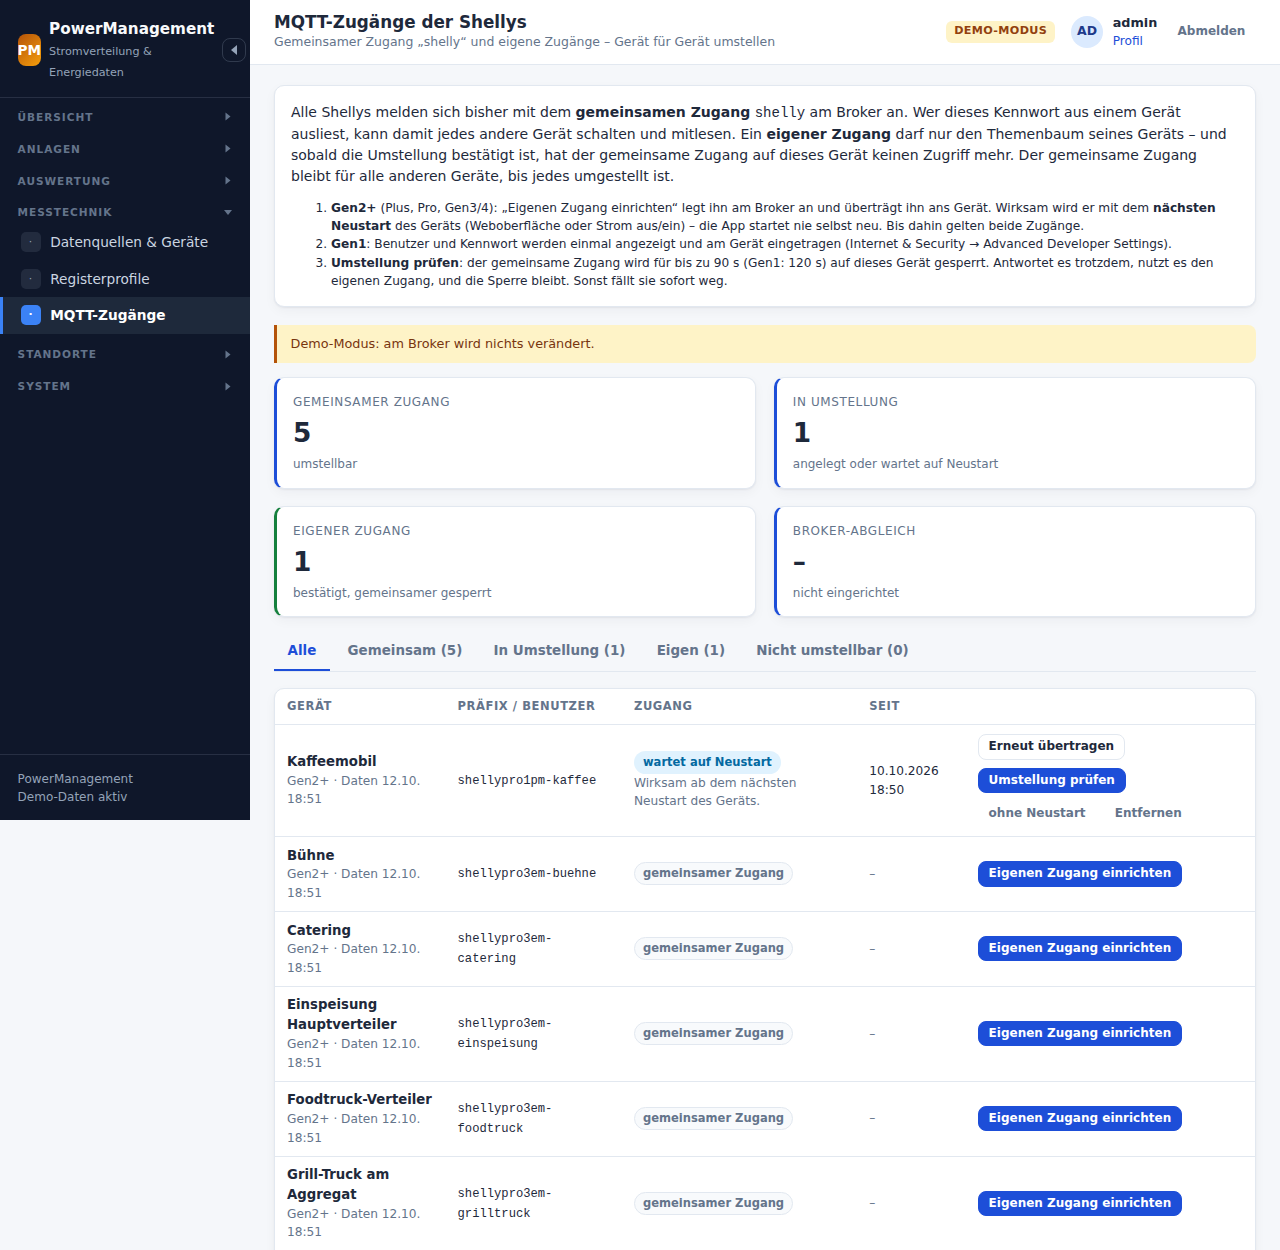
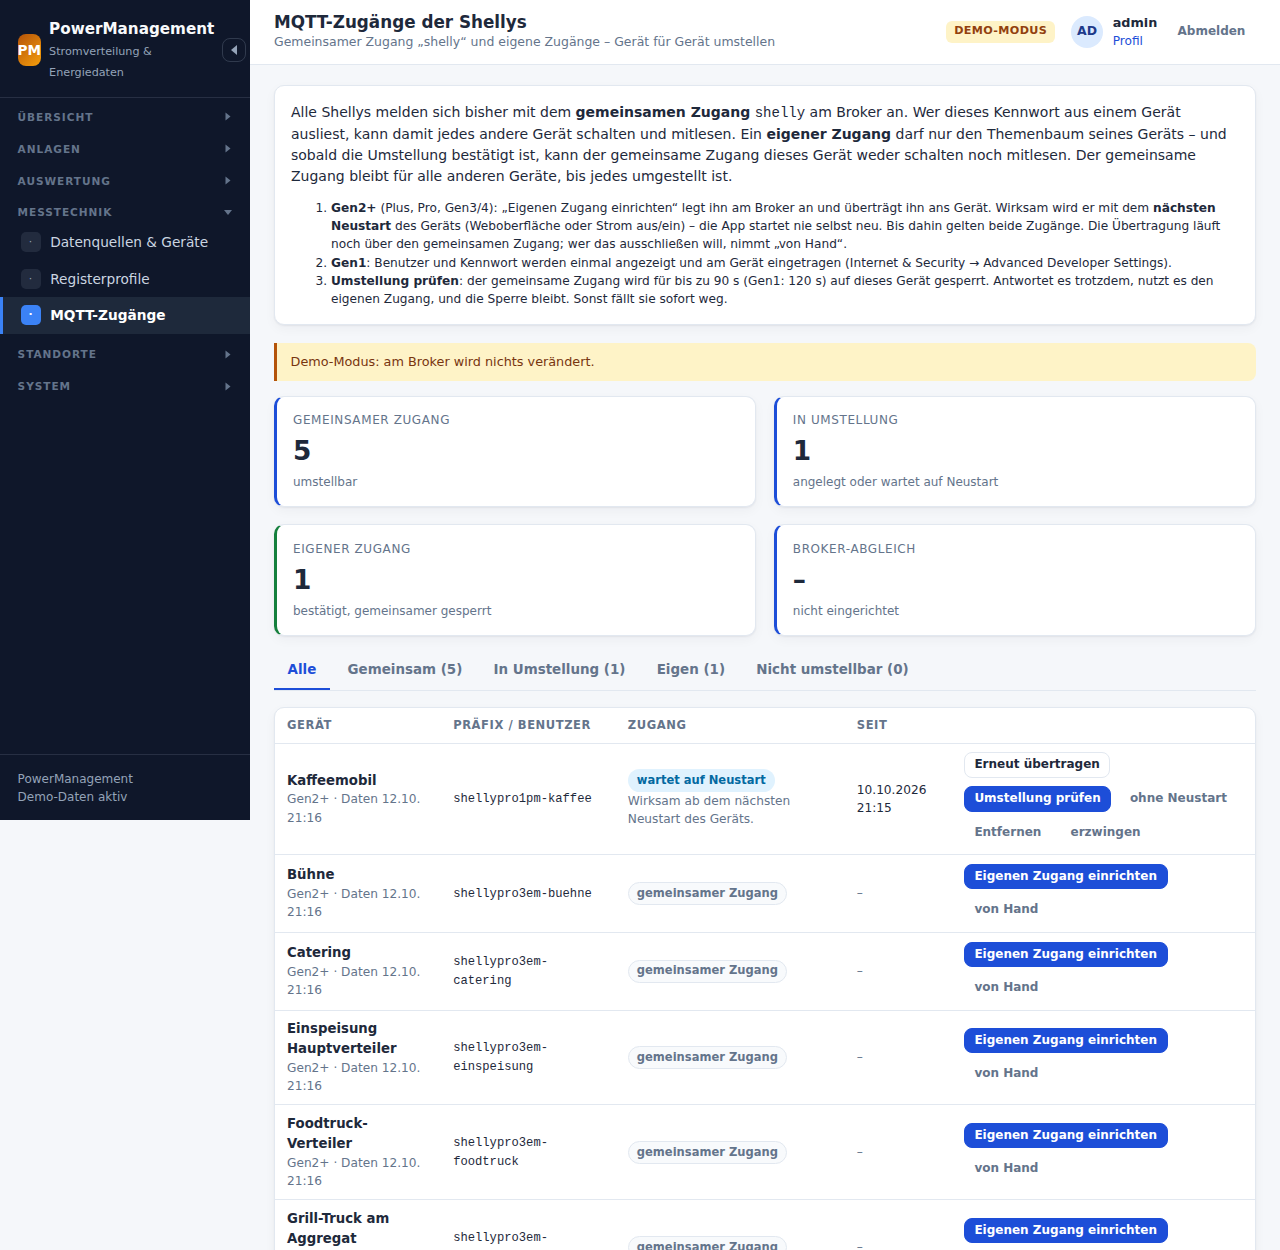
Eigene MQTT-Zugänge je Shelly: Befunde der Prüfrunde – Broker und Installation
Helfer-Einheit ohne Pfad, den die Anwendung besitzt (ProtectSystem=full,
nur /etc/mosquitto beschreibbar); check_retain_source gegen gespeicherte
Befehle des gemeinsamen Zugangs; Neulade-Marke bei Läufen ohne Neuladen;
Update erkennt die Übergangsfassung nach einem Rollback und lädt beim
Zurückrollen neu; Hinweis auf behaltene Node-RED-Flows; Doku mit Grenzen.

Claude-Session: https://claude.ai/code/session_01NdNDGfCteWePkd7EenfbVk

diff --git a/tests/mqtt-helfer.php b/tests/mqtt-helfer.php
@@ -9,9 +9,11 @@ declare(strict_types=1);
  * Kennwortdatei (übrige Zeilen Byte für Byte), zweiter Lauf ohne Änderung
  * und ohne Neuladen, Ablehnungen (Exit 2, nichts geändert), fehlendes Soll,
  * abgelaufene Prüf-Sperren, Grundlage ohne „user shelly“ oder kaputt,
- * Abgleich des Installationsskripts, keine Hashes in Ausgaben – und die
- * Rechte am Broker: gemeinsamer Zugang, Gerätezugänge Gen2/Gen1, Sperre
- * (auch für ein Abo von vor dem Neuladen), Neuladen trennt niemanden.
+ * Abgleich des Installationsskripts, keine Hashes in Ausgaben, ausstehendes
+ * Neuladen nach --neu-laden=nein (Marke) – und die Rechte am Broker:
+ * gemeinsamer Zugang, Gerätezugänge Gen2/Gen1, Sperre (auch für ein Abo von
+ * vor dem Neuladen und für Retained-Nachrichten, die der gemeinsame Zugang
+ * vorher im Gerätebaum abgelegt hat), Neuladen trennt niemanden.
  */
 
 require __DIR__ . '/hilfen/pruefung.php';
@@ -97,6 +99,20 @@ $verbinden = static function (string $benutzer, string $kennwort, string $name) 
     $c = mqttVerbinden($broker, $benutzer, $kennwort, 'pm-pruef-' . $kennung . '-' . $name);
     $clients[] = $c;
     return $c;
+};
+/** Was bekommt ein frisches Abo auf $thema? Nur das, was der Broker als Retained aufhebt. */
+$behalten = static function (string $benutzer, string $kennwort, string $thema, string $name) use ($verbinden): array {
+    $c = $verbinden($benutzer, $kennwort, $name);
+    $c->abonnieren([$thema]);
+    $nutzlasten = [];
+    $c->lauschen(0.8, static function (string $t, string $n) use ($thema, &$nutzlasten): bool {
+        if ($t === $thema) {
+            $nutzlasten[] = $n;
+        }
+        return false;
+    });
+    $c->trennen();
+    return $nutzlasten;
 };
 
 try {
@@ -231,6 +247,17 @@ try {
     pruefe($angekommen, 'vor der Sperre: Abo des gemeinsamen Zugangs auf den Gerätebaum bekommt Nachrichten');
     $shUnveraendert = $verbinden('shelly', $kw['shelly'], 'shelly-unveraendert');
 
+    // Vor der Umstellung kann der gemeinsame Zugang Retained-Nachrichten im
+    // Baum des Geräts ablegen – etwa einen Schaltbefehl auf <präfix>/rpc. Ohne
+    // check_retain_source bekäme das Gerät ihn nach der Sperre bei jedem
+    // Verbinden wieder.
+    $fremdRpc = '{"id":1,"src":"fremd-' . $kennung . '","method":"Switch.Set","params":{"id":0,"on":true}}';
+    $sh->veroeffentlichen($g2 . '/rpc', $fremdRpc, 1, true);
+    $eigenOnline = 'true-' . $kennung;
+    $d2->veroeffentlichen($g2 . '/online', $eigenOnline, 1, true);
+    gleich($behalten($g2, $kwG2, $g2 . '/rpc', 'g2-retain-vor'), [$fremdRpc],
+        'vor der Sperre: Retained-Nachricht des gemeinsamen Zugangs erreicht das Gerät');
+
     // --------------------------------------------- Sperre „dauerhaft“
     $l = $soll([[$g2, 2, $hG2, 'dauerhaft'], [$g2Name, 2, $hG2Name, '-'], [$g1, 1, $hG1, '-']]);
     $r = $helfer();
@@ -257,6 +284,15 @@ try {
     pruefe(mqttKommtAn($sh2, $nr, $g2Name . '/rpc'), 'gesperrt: nicht gesperrtes Gerät mit eigenem Zugang bleibt erreichbar');
     pruefe(mqttKommtAn($shUnveraendert, $nr, $frei . '/status/switch:1'), 'Neuladen (SIGHUP) lässt die Sitzung des gemeinsamen Zugangs bestehen');
     pruefe(mqttKommtAn($d2, $nr, $g2 . '/status/switch:1'), 'Neuladen lässt die Sitzung des Gerätezugangs bestehen');
+    gleich($behalten($g2, $kwG2, $g2 . '/rpc', 'g2-retain-nach'), [],
+        'gesperrt: Retained-Nachricht des gemeinsamen Zugangs im Gerätebaum erreicht das Gerät nicht mehr (check_retain_source)');
+    gleich($behalten('nodered', $kw['nodered'], $g2 . '/rpc', 'nr-retain-nach'), [],
+        'gesperrt: auch Node-RED bekommt sie nicht mehr');
+    gleich($behalten($g2, $kwG2, $g2 . '/online', 'g2-online-nach'), [$eigenOnline],
+        'gesperrt: eigene Retained-Nachricht des Geräts kommt weiter an');
+    // Aufräumen: leere Retained-Nachricht (Node-RED darf dort schreiben).
+    $nr->veroeffentlichen($g2 . '/rpc', '', 1, true);
+    $nr->veroeffentlichen($g2 . '/online', '', 1, true);
 
     // --------------------------------------------- Prüf-Sperre bis:
     $l = $soll([[$g2, 2, $hG2, 'dauerhaft'], [$g2Name, 2, $hG2Name, 'bis:' . (time() + 3)], [$g1, 1, $hG1, '-']]);
@@ -277,6 +313,10 @@ try {
     gleich($r['code'], 0, 'bereits abgelaufenes bis: kein Fehler');
 
     // --------------------------------------------- Sperre eines Gen1-Geräts
+    $fremdBefehl = 'on-' . $kennung;
+    $sh2->veroeffentlichen('shellies/' . $g1 . '/relay/0/command', $fremdBefehl, 1, true);
+    gleich($behalten($g1, $kwG1, 'shellies/' . $g1 . '/relay/0/command', 'g1-retain-vor'), [$fremdBefehl],
+        'Gen1 vor der Sperre: Retained-Schaltbefehl des gemeinsamen Zugangs erreicht das Gerät');
     $soll([[$g2, 2, $hG2, 'dauerhaft'], [$g2Name, 2, $hG2Name, '-'], [$g1, 1, $hG1, 'dauerhaft']]);
     $r = $helfer();
     $erwartet = [$g2, 'shellies/' . $g1];
@@ -286,6 +326,9 @@ try {
     pruefe(!mqttKommtAn($d1, $sh2, 'shellies/' . $g1 . '/relay/0'), 'Gen1 gesperrt: gemeinsamer Zugang liest den Baum nicht mehr');
     pruefe(mqttKommtAn($nr, $d1, 'shellies/' . $g1 . '/relay/0/command'), 'Gen1 gesperrt: Node-RED erreicht das Gerät weiter');
     pruefe(mqttKommtAn($sh2, $nr, 'shellies/shelly1-' . $kennung . 'X/relay/0'), 'Gen1 gesperrt: anderer Gen1-Baum bleibt für den gemeinsamen Zugang');
+    gleich($behalten($g1, $kwG1, 'shellies/' . $g1 . '/relay/0/command', 'g1-retain-nach'), [],
+        'Gen1 gesperrt: Retained-Schaltbefehl des gemeinsamen Zugangs erreicht das Gerät nicht mehr');
+    $nr->veroeffentlichen('shellies/' . $g1 . '/relay/0/command', '', 1, true);
     $soll([[$g2, 2, $hG2, 'dauerhaft'], [$g2Name, 2, $hG2Name, '-'], [$g1, 1, $hG1, '-']]);
     $r = $helfer();
     gleich($ergebnis()['gesperrt'], [$g2], 'Gen1 wieder frei');
@@ -371,12 +414,63 @@ try {
     pruefe($datei($broker['passwd'])['inhalt'] === $vorP['inhalt'] && $datei($broker['wirksam'])['inhalt'] === $vorW['inhalt'],
         'Neuladen scheitert: Kennwortdatei und wirksame ACL wieder wie vorher');
     gleich($e['gesperrt'], [$g2], 'Neuladen scheitert: Ergebnis nennt, was gilt');
+    clearstatcache(true, $broker['marke']);
+    pruefe(!is_file($broker['marke']), 'Neuladen scheitert, Dateien zurückgelegt: keine Marke (nichts steht aus)');
     $r = $helfer();
     $erwartet = [$g2, $g2Name];
     sort($erwartet, SORT_STRING);
     gleich([$r['code'], $r['letzte'], $ergebnis()['gesperrt']], [0, 'geaendert', $erwartet], 'nächster Lauf übernimmt es');
     $soll([[$g2, 2, $hG2, 'dauerhaft'], [$g2Name, 2, $hG2Name, '-'], [$g1, 1, $hG1, '-']]);
     $helfer();
+
+    // --------------------------------------------- Neuladen steht aus
+    // Installation und Update rufen den Helfer mit --neu-laden=nein und laden
+    // den Broker danach selbst. Scheitern sie vorher (Update zurückgerollt),
+    // holt der nächste Lauf mit Neuladen das nach – obwohl sich an den
+    // Dateien dann nichts mehr ändert.
+    $marke = $broker['marke'];
+    $markeDa = static function () use ($marke): bool {
+        clearstatcache(true, $marke);
+        return is_file($marke);
+    };
+    pruefe(!$markeDa(), 'Läufe mit Neuladen hinterlassen keine Marke');
+    $neuGeladen = mqttNeuGeladen($broker);
+    $soll([[$g2, 2, $hG2, 'dauerhaft'], [$g2Name, 2, $hG2Name, 'dauerhaft'], [$g1, 1, $hG1, '-']]);
+    $r = $helfer(['--neu-laden=nein']);
+    gleich([$r['code'], $r['letzte']], [0, 'geaendert'], '--neu-laden=nein: Dateien geändert');
+    pruefe($markeDa(), '--neu-laden=nein mit Änderung: Marke angelegt');
+    gleich($markeDa() ? decoct(fileperms($marke) & 0777) : null, '600', 'Marke: Rechte 600');
+    usleep(300_000);
+    gleich(mqttNeuGeladen($broker), $neuGeladen, '--neu-laden=nein: Broker nicht neu geladen');
+    pruefe(mqttKommtAn($sh2, $nr, $g2Name . '/rpc'), 'nicht neu geladen: die neue Sperre wirkt noch nicht');
+    $r = $helfer(['--neu-laden=nein']);
+    gleich([$r['code'], $r['letzte']], [0, 'geaendert'], '--neu-laden=nein, Dateien gleich, Neuladen steht aus: geaendert (Aufrufer soll neu laden)');
+    pruefe($markeDa(), '--neu-laden=nein: Marke bleibt');
+    $vorP = $datei($broker['passwd']);
+    $vorW = $datei($broker['wirksam']);
+    $r = $helfer(['--neu-laden=pid:999999999']);
+    $e = $ergebnis();
+    gleich([$r['code'], $r['letzte'], $e['fehler']], [1, 'unveraendert', ['0 neuladen']],
+        'ausstehendes Neuladen scheitert: Exit 1, fehler 0 neuladen');
+    pruefe($markeDa(), 'ausstehendes Neuladen gescheitert: Marke bleibt');
+    pruefe($datei($broker['passwd']) == $vorP && $datei($broker['wirksam']) == $vorW, 'ausstehendes Neuladen gescheitert: Dateien unberührt');
+    $r = $helfer();
+    gleich([$r['code'], $r['letzte']], [0, 'geaendert'], 'nächster Lauf holt das Neuladen nach, obwohl die Dateien gleich bleiben');
+    gleich(mqttNeuGeladen($broker), $neuGeladen + 1, 'genau einmal neu geladen');
+    pruefe(!$markeDa(), 'nach gelungenem Neuladen: Marke gelöscht');
+    pruefe($datei($broker['passwd']) == $vorP && $datei($broker['wirksam']) == $vorW, 'nachgeholtes Neuladen: Dateien unberührt');
+    pruefe(!mqttKommtAn($sh2, $nr, $g2Name . '/rpc'), 'nachgeholtes Neuladen: die Sperre wirkt');
+    $r = $helfer();
+    gleich([$r['code'], $r['letzte'], mqttNeuGeladen($broker)], [0, 'unveraendert', $neuGeladen + 1],
+        'danach: unveraendert, kein weiteres Neuladen');
+    // Ändert ein Lauf mit Neuladen ohnehin Dateien, nimmt er die Marke mit.
+    $soll([[$g2, 2, $hG2, 'dauerhaft'], [$g2Name, 2, $hG2Name, 'dauerhaft'], [$g1, 1, $hG1, 'dauerhaft']]);
+    $helfer(['--neu-laden=nein']);
+    pruefe($markeDa(), 'zweite Marke angelegt');
+    $soll([[$g2, 2, $hG2, 'dauerhaft'], [$g2Name, 2, $hG2Name, '-'], [$g1, 1, $hG1, '-']]);
+    $r = $helfer();
+    gleich([$r['code'], $r['letzte'], $ergebnis()['gesperrt']], [0, 'geaendert', [$g2]], 'Lauf mit Änderung und Neuladen');
+    pruefe(!$markeDa(), 'Lauf mit Änderung und Neuladen: Marke gelöscht');
 
     // --------------------------------------------- fehlendes Soll
     unlink($broker['soll']);

diff --git a/docs/installation-debian-lxc.md b/docs/installation-debian-lxc.md
@@ -370,13 +370,18 @@ gemeldet hat, mit seinem Zugang. Benutzername am Broker ist das
 MQTT-Präfix des Geräts (`shellypro4pm-a0b1c2d3e4f5` bzw.
 `shelly/hauptverteilung`), bei Gen1 die Geräte-ID (`shelly1-B929CC`).
 PowerManagement speichert das Kennwort nirgends im Klartext – nur den Hash
-beim Broker.
+beim Broker. Melden sich unter demselben Gerätenamen mehrere Präfixe
+(Doppelgänger, etwa `kuehlhaus` und `shelly/kuehlhaus`), lässt sich keines
+umstellen, bis geklärt ist, welches das echte Gerät ist.
 
 **Gen2+**
 
 1. Beim Gerät **„Eigenen Zugang einrichten“**. Der Zugang wird am Broker
    angelegt und per `MQTT.SetConfig` ans Gerät übertragen – nur Benutzer und
-   Kennwort; Server, Präfix und alle anderen Einstellungen bleiben.
+   Kennwort; Server, Präfix und alle anderen Einstellungen bleiben. Oder
+   **„von Hand“**: Benutzer und Kennwort erscheinen einmal und werden in der
+   Weboberfläche des Geräts unter *Settings → MQTT* eingetragen – dann geht
+   nichts davon über MQTT (siehe „Grenzen“).
 2. Den Shelly **neu starten** (Weboberfläche des Geräts → *Reboot*, oder
    Strom aus und wieder ein). Erst dann meldet er sich mit dem neuen Zugang
    an. PowerManagement startet nie selbst ein Gerät neu; bis zum Neustart
@@ -398,14 +403,38 @@ beim Broker.
 
 **Später**
 
-* **Neues Kennwort:** erzeugt ein neues Kennwort – Gen2+ bekommt es
-  übertragen (wirksam ab dem nächsten Neustart, bis dahin ist das Gerät
-  getrennt), bei Gen1 erscheint es wieder einmal zum Eintragen. Auch der
-  Weg, wenn ein Gerät mit eigenem Zugang durch ein neues mit gleichem Präfix
-  ersetzt wird.
+* **Neues Kennwort:** erscheint einmal und wird am Gerät eingetragen (bei
+  beiden Generationen; nie per MQTT – wer das bisherige Gerätekennwort
+  kennt, dürfte dort mitlesen). Der Broker nimmt sofort nur noch das neue
+  an, bis zum Eintragen ist das Gerät getrennt. Auch der Weg, wenn ein Gerät
+  mit eigenem Zugang durch ein neues mit gleichem Präfix ersetzt wird.
 * **Entfernen:** Konto und Sperre fallen weg. Nutzt das Gerät den eigenen
   Zugang schon, ist es sofort getrennt – am Gerät wieder `shelly` und das
-  gemeinsame Kennwort eintragen.
+  gemeinsame Kennwort eintragen. Bei Gen2+ vor der Bestätigung fragt die
+  Oberfläche erst das Gerät: hat es den Zugang schon gespeichert, nutzte es
+  ihn ab dem nächsten Neustart – dann nur mit **erzwingen**.
+
+**Grenzen**
+
+* Die Übertragung per `MQTT.SetConfig` läuft durch den Themenbaum des
+  Geräts, den der gemeinsame Zugang zu diesem Zeitpunkt noch lesen darf.
+  Wer das gemeinsame Kennwort kennt und genau dann mitliest, sieht das neue
+  Gerätekennwort. Wer das ausschließen will, richtet „von Hand“ ein.
+* Mosquitto bindet Client-IDs nicht an Benutzer: Wer das gemeinsame
+  Kennwort kennt, kann ein umgestelltes Gerät vom Broker werfen, indem er
+  sich mit dessen Client-ID anmeldet. Schalten oder mitlesen kann er es
+  nicht.
+* Den Gen1-Rundruf `shellies/command` darf der gemeinsame Zugang weiter
+  schreiben (`announce`, `update`, `update_fw` – nur offizielle Firmware);
+  Gen1-Geräte am gemeinsamen Zugang brauchen ihn.
+* Gespeicherte (retained) Nachrichten, die der gemeinsame Zugang vor der
+  Umstellung im Baum des Geräts abgelegt hat, liefert der Broker danach
+  nicht mehr aus (`check_retain_source true` in
+  `/etc/mosquitto/conf.d/powermanagement.conf`).
+* Den Schutz vor Doppelgänger-Präfixen in den Messwerten leistet Node-RED
+  (Liste unter `pm/status/mqtt-zugaenge`). Wer die Flows im Editor geändert
+  hat und sie beim Update behält, hat ihn nicht – die Seite „MQTT-Zugänge“
+  meldet dann, dass Node-RED die Liste nicht bestätigt.
 
 Hinter den Kulissen schreibt die Oberfläche den Sollzustand nach
 `storage/mqtt/soll/zugaenge.txt`; `powermanagement-mqtt-zugaenge.path`
@@ -413,9 +442,16 @@ startet daraufhin `deploy/mqtt-zugaenge.sh`. Der Helfer prüft das Soll
 streng (bei einem Fehler ändert er nichts), schreibt den Block oben in
 `/etc/mosquitto/powermanagement.passwd` und die wirksame ACL, lädt
 Mosquitto neu (SIGHUP – bestehende Verbindungen bleiben) und legt das
-Ergebnis nach `storage/mqtt/ist/ergebnis.txt`. Der Zeitgeber wiederholt
-das alle zwei Minuten und räumt dabei abgelaufene Prüf-Sperren ab. Von
-Hand anstoßen: `systemctl start powermanagement-mqtt-zugaenge.service`.
+Ergebnis nach `storage/mqtt/ist/ergebnis.txt` (als `www-data`). Der
+Zeitgeber wiederholt das alle zwei Minuten und räumt dabei abgelaufene
+Prüf-Sperren ab. Von Hand anstoßen: `systemctl start
+powermanagement-mqtt-zugaenge.service`. Der Dienst läuft mit
+`ProtectSystem=full` und darf nur `/etc/mosquitto` schreiben – kein Pfad,
+den die Anwendung besitzt, damit ein Verweis dort ihm nichts freigibt.
+Laufen Installation oder Update den Helfer ohne Neuladen (sie starten den
+Broker selbst), legt er bei Änderungen die Marke
+`/etc/mosquitto/powermanagement-mqtt-zugaenge.neuladen` an; bricht der
+Aufrufer danach ab, holt der nächste Lauf das Neuladen nach.
 Auf der Kommandozeile zeigt `bin/power mqtt:zugaenge` (als `www-data`),
 welches Gerät welchen Zugang hat.
 
@@ -448,8 +484,10 @@ topic deny shellypro4pm-a0b1c2d3e4f5/#
 topic deny shellies/shelly1-B929CC/#
 ```
 
-Das Kennwort am Gerät von Hand eintragen (Gen2+: *Settings → MQTT*), Gerät
-neu starten, dann sperren und Broker neu laden.
+Dazu in der Broker-Konfiguration `check_retain_source true`, damit
+gespeicherte Nachrichten des gemeinsamen Zugangs im gesperrten Baum nicht
+weiter ausgeliefert werden. Das Kennwort am Gerät von Hand eintragen (Gen2+:
+*Settings → MQTT*), Gerät neu starten, dann sperren und Broker neu laden.
 
 ### Prüfen
 
